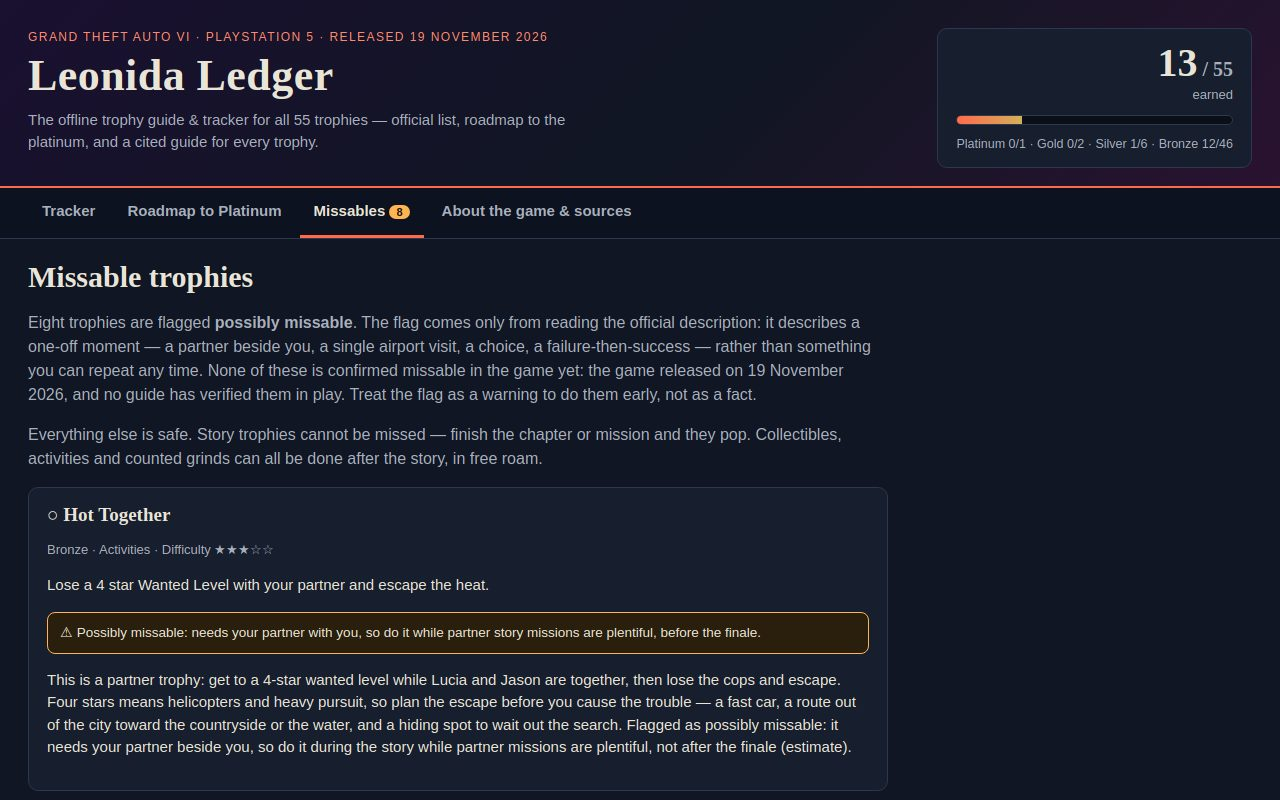
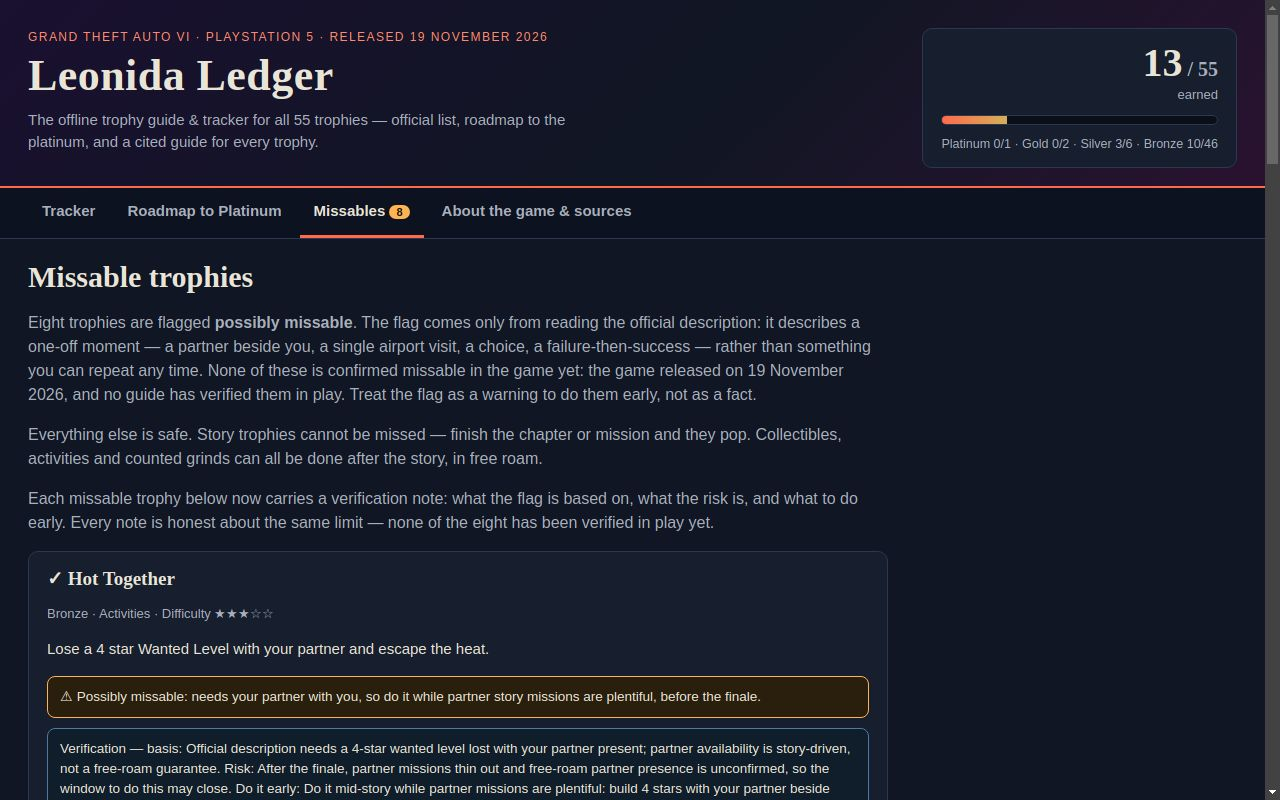
Round 2: per-stage progress summaries + verified missable notes
- Roadmap page now shows a per-stage summary card (earned/total,
  percent, next trophy up, full still-to-do list) computed from saved
  progress via new stageSummary/nextUpInStage helpers in app/js/data.js
  and renderStageSummary in app/js/render.js.
- Every one of the 8 possibly-missable trophies carries a new
  missable_check note in trophies.json (basis, risk, do-early) shown on
  the missables page and in the detail pane; all state plainly that
  none is verified in play yet (game released 19 Nov 2026).
- main.ts now validates the guide data before building (55 trophies,
  stages 13/7/19/14/2, 8 missable flags with verification notes) and
  verifies the dossier landed after buildDossier.
- Search now covers the missable verification notes; import reports
  unknown names instead of silently dropping them; keys 1-4 switch
  sections; serve.ts gains a /health endpoint.
- Screenshots retaken in headless Chromium to show the new UI.
- out2/ stray build output removed; .gitignore now covers out2/.

Changed region(s): [[0.0312, 0.5938, 0.6875, 1.0], [0.7188, 0.0, 1.0, 1.0]]

diff --git a/app/js/render.js b/app/js/render.js
@@ -1,7 +1,7 @@
 // Renders every view of the guide: the progress header, the checklist with its
 // detail pane, the roadmap stages and the missables page. All text is built with
 // textContent (never innerHTML from data), so a trophy name can never break the page.
-import { GRADE_LABELS, KIND_LABELS, STAGE_INFO, gradeCounts, missableTrophies, trophiesInStage } from './data.js';
+import { GRADE_LABELS, KIND_LABELS, STAGE_INFO, gradeCounts, missableTrophies, nextUpInStage, stageSummary, trophiesInStage } from './data.js';
 import { applyFilters, displayDescription, displayName, spoilerHides } from './filters.js';
 
 function el(tag, className, text) {
@@ -102,6 +102,9 @@ export function renderDetail(doc, state) {
   if (trophy.missable && trophy.missable_note) {
     pane.append(el('p', 'warn-box', `⚠ ${trophy.missable_note}`));
   }
+  if (trophy.missable && trophy.missable_check) {
+    pane.append(el('p', 'verify-note', `Verified? No — not in play yet (game released 19 Nov 2026). Why it is flagged: ${trophy.missable_check.basis} Risk: ${trophy.missable_check.risk} Do it early: ${trophy.missable_check.do_early}`));
+  }
   pane.append(el('h3', null, 'Guide'));
   pane.append(el('p', null, trophy.guide));
   if (trophy.steps?.length) {
@@ -131,6 +134,7 @@ export function renderDetail(doc, state) {
 }
 
 export function renderRoadmap(doc, state) {
+  renderStageSummary(doc, state);
   const host = document.getElementById('roadmapStages');
   host.replaceChildren();
   for (const stage of [1, 2, 3, 4, 5]) {
@@ -154,6 +158,47 @@ export function renderRoadmap(doc, state) {
   }
 }
 
+// Round 2: the per-stage progress cards at the top of the roadmap page.
+// Each card shows earned/total, a percent bar, the next trophy to chase,
+// and the full list of trophies still left in that stage.
+export function renderStageSummary(doc, state) {
+  const host = document.getElementById('stageSummary');
+  if (!host) return;
+  host.replaceChildren();
+  const summaries = stageSummary(doc, state.earned);
+  const overall = summaries.reduce((acc, s) => acc + s.earned, 0);
+  const overallTotal = summaries.reduce((acc, s) => acc + s.total, 0);
+  const headline = el('p', 'stage-summary-headline',
+    overall === overallTotal
+      ? 'Every stage is complete — the platinum is yours.'
+      : `${overall} of ${overallTotal} trophies earned across 5 stages. The stage furthest behind is the one to work next.`);
+  host.append(headline);
+  for (const s of summaries) {
+    const card = el('article', 'stage-card');
+    if (s.done) card.classList.add('stage-done');
+    const heading = el('h3');
+    heading.append(el('span', 'stage-num', `Stage ${s.stage} — `));
+    heading.append(document.createTextNode(s.title));
+    card.append(heading);
+    card.append(el('p', 'stage-meta', `${s.earned}/${s.total} earned · ${s.percent}%${s.done ? ' · complete' : ''}`));
+    const bar = el('div', 'stage-bar');
+    bar.setAttribute('role', 'progressbar');
+    bar.setAttribute('aria-valuemin', '0');
+    bar.setAttribute('aria-valuemax', String(s.total));
+    bar.setAttribute('aria-valuenow', String(s.earned));
+    const fill = el('div', 'stage-fill');
+    fill.style.width = `${s.percent}%`;
+    bar.append(fill);
+    card.append(bar);
+    const next = nextUpInStage(doc, s.stage, state.earned);
+    card.append(el('p', 'stage-next', next ? `Next up: ${next}` : 'Nothing left in this stage.'));
+    if (s.remaining.length) {
+      card.append(el('p', 'stage-remaining', `Still to do (${s.remaining.length}): ${s.remaining.join(' · ')}`));
+    }
+    host.append(card);
+  }
+}
+
 export function renderMissables(doc, state) {
   const host = document.getElementById('missableList');
   host.replaceChildren();
@@ -165,6 +210,9 @@ export function renderMissables(doc, state) {
     section.append(el('p', 'stage-meta', `${GRADE_LABELS[t.grade]} · ${KIND_LABELS[t.kind]} · Difficulty ${difficultyStars(t.difficulty)}`));
     section.append(el('p', 'official', t.description));
     section.append(el('p', 'warn-box', `⚠ ${t.missable_note ?? 'Flagged from the official description only — not confirmed in play.'}`));
+    if (t.missable_check) {
+      section.append(el('p', 'verify-note', `Verification — basis: ${t.missable_check.basis} Risk: ${t.missable_check.risk} Do it early: ${t.missable_check.do_early} (Not verified in play — the game released 19 Nov 2026.)`));
+    }
     section.append(el('p', null, t.guide));
     host.append(section);
   }

diff --git a/main.ts b/main.ts
@@ -13,7 +13,7 @@
 // Outside the grader's container, MAKEFUN_OUTPUT_DIR stands in for /output:
 //   mkdir -p out && MAKEFUN_OUTPUT_DIR=out node main.ts
 
-import { cpSync, existsSync, mkdirSync, readdirSync, writeFileSync } from 'node:fs';
+import { cpSync, existsSync, mkdirSync, readdirSync, readFileSync, writeFileSync } from 'node:fs';
 import { join } from 'node:path';
 import { fileURLToPath } from 'node:url';
 import { buildDossier } from './vendor/makefun-frontend.ts';
@@ -33,6 +33,29 @@ if (existsSync(shotsDir)) {
   if (shots.length > 4) throw new Error(`screenshots/ holds ${shots.length} files; the gate allows at most 4`);
 }
 
+// Round 2: validate the guide data before anything is copied, so a broken
+// trophy list fails here with a readable message instead of shipping a
+// dossier built from bad data. The counts below are the official list's
+// shape (55 trophies; stages of 13/7/19/14/2; 8 possibly-missable flags),
+// and every missable trophy must carry its round-2 verification note.
+const guidePath = join(appDir, 'data', 'trophies.json');
+const guide = JSON.parse(readFileSync(guidePath, 'utf-8'));
+const guideTrophies = guide.trophies ?? [];
+if (guideTrophies.length !== 55) throw new Error(`trophies.json holds ${guideTrophies.length} trophies; the official list has 55`);
+const stageTotals = [1, 2, 3, 4, 5].map((stage) => guideTrophies.filter((t) => t.stage === stage).length);
+const expectedStages = [13, 7, 19, 14, 2];
+stageTotals.forEach((total, i) => {
+  if (total !== expectedStages[i]) throw new Error(`stage ${i + 1} holds ${total} trophies; the roadmap expects ${expectedStages[i]}`);
+});
+const missableTrophies = guideTrophies.filter((t) => t.missable);
+if (missableTrophies.length !== 8) throw new Error(`trophies.json flags ${missableTrophies.length} missable trophies; the guide expects 8`);
+for (const t of missableTrophies) {
+  if (!t.missable_check || t.missable_check.verified_in_play !== false || !t.missable_check.do_early) {
+    throw new Error(`missable trophy ${t.name} is missing its verification note (missable_check)`);
+  }
+}
+console.log(`guide data OK: 55 trophies, stages ${stageTotals.join('/')}, ${missableTrophies.length} possibly missable`);
+
 mkdirSync(out, { recursive: true });
 cpSync(appDir, join(out, 'app'), { recursive: true });
 mkdirSync(join(out, 'screenshots'), { recursive: true });
@@ -47,3 +70,11 @@ writeFileSync(
   join(out, 'dossier.json'),
   buildDossier(out, { text_max_bytes: 163840, screenshots: { max: 4, max_bytes: 262144 }, app_max_files: 993, app_max_bytes: 50331648 }),
 );
+
+// Round 2, second pass: confirm the dossier actually landed and say how
+// big it is, so a silent write failure cannot pass as a good build.
+const dossierPath = join(out, 'dossier.json');
+const dossierRaw = readFileSync(dossierPath);
+if (dossierRaw.length === 0) throw new Error(`dossier.json at ${dossierPath} is empty`);
+const dossierSections = Object.keys(JSON.parse(dossierRaw.toString('utf-8'))).sort().join(', ');
+console.log(`dossier OK: ${dossierRaw.length} bytes, sections: ${dossierSections}`);

diff --git a/app/index.html b/app/index.html
@@ -78,6 +78,8 @@
     <div class="page">
       <h2>Roadmap to the platinum</h2>
       <p class="lede">Fifty-five trophies: 1 platinum, 2 gold, 6 silver, 46 bronze. The order below is built from the official descriptions alone — which trophies are story chapters and missions, which are side strands, which are collectibles and counted grinds. Work it stage by stage; the platinum pops when the other 54 are done.</p>
+      <p class="lede">The cards below summarise each stage from your own saved progress — earned/total, percent, the next trophy to chase, and everything still left in the stage. Tick trophies off in the tracker and the cards update.</p>
+      <div id="stageSummary" class="stage-summary" aria-label="Progress per stage"></div>
       <div id="roadmapStages"></div>
       <h3>How long is it?</h3>
       <p>There is no honest hour count yet — the game released on 19 November 2026 and nobody has finished a full platinum run in public. Expect the story stages to take a normal campaign's length, and the counted grinds (250 stunts, 42 gold shooting-range medals, 100 WAiNK It locations) to take longer than the story itself. This is an estimate, not a measured time.</p>
@@ -89,6 +91,7 @@
       <h2>Missable trophies</h2>
       <p class="lede">Eight trophies are flagged <strong>possibly missable</strong>. The flag comes only from reading the official description: it describes a one-off moment — a partner beside you, a single airport visit, a choice, a failure-then-success — rather than something you can repeat any time. None of these is confirmed missable in the game yet: the game released on 19 November 2026, and no guide has verified them in play. Treat the flag as a warning to do them early, not as a fact.</p>
       <p class="lede">Everything else is safe. Story trophies cannot be missed — finish the chapter or mission and they pop. Collectibles, activities and counted grinds can all be done after the story, in free roam.</p>
+      <p class="lede">Each missable trophy below now carries a verification note: what the flag is based on, what the risk is, and what to do early. Every note is honest about the same limit — none of the eight has been verified in play yet.</p>
       <div id="missableList"></div>
     </div>
   </section>

diff --git a/app/js/main.js b/app/js/main.js
@@ -2,7 +2,7 @@
 // toolbar and tabs, and renders the tracker. No network request happens here
 // beyond fetching the app's own data file.
 import { loadGuide } from './data.js';
-import { exportFile, loadEarned, loadSettings, readImportFile, saveEarned, saveSettings } from './store.js';
+import { exportFile, loadEarned, loadSettings, readImportFile, saveEarned, saveSettings, summariseImport } from './store.js';
 import { renderDetail, renderList, renderMissables, renderProgress, renderRoadmap } from './render.js';
 
 const state = {
@@ -91,9 +91,11 @@ function bindToolbar() {
     try {
       const names = await readImportFile(file);
       const known = new Set(state.doc.trophies.map((t) => t.name));
-      state.earned = new Set(names.filter((n) => known.has(n)));
+      const { valid, unknown } = summariseImport(names, known);
+      state.earned = new Set(valid);
       saveEarned(state.earned);
       renderAll();
+      if (unknown.length) alert(`${unknown.length} name${unknown.length === 1 ? '' : 's'} in that file are not trophies in this guide and were skipped.`);
     } catch (error) {
       alert(`Could not import that file: ${error.message}`);
     }
@@ -111,6 +113,13 @@ function bindTabs() {
   for (const tab of document.querySelectorAll('.tab')) {
     tab.addEventListener('click', () => switchView(tab.dataset.view));
   }
+  // Round 2: keys 1–4 jump between the four sections without a mouse.
+  const views = ['tracker', 'roadmap', 'missables', 'about'];
+  document.addEventListener('keydown', (event) => {
+    if (event.target.matches('input, select, textarea')) return;
+    const index = Number(event.key) - 1;
+    if (index >= 0 && index < views.length) switchView(views[index]);
+  });
 }
 
 async function boot() {

diff --git a/app/style.css b/app/style.css
@@ -166,3 +166,17 @@ footer { padding: 18px 28px 28px; color: var(--ink-dim); font-size: 12.5px; bord
   .progress-card { text-align: left; }
   .brand h1 { font-size: 34px; }
 }
+
+/* Round 2: per-stage progress cards on the roadmap page. */
+.stage-summary { display: grid; grid-template-columns: repeat(auto-fit, minmax(240px, 1fr)); gap: 12px; margin: 16px 0 6px; }
+.stage-summary-headline { grid-column: 1 / -1; color: var(--ink-dim); font-size: 15px; margin: 0; }
+.stage-card { background: var(--panel); border: 1px solid var(--line); border-radius: var(--radius); padding: 14px 16px; }
+.stage-card.stage-done { border-color: var(--good); }
+.stage-card h3 { font-size: 17px; margin: 0 0 4px; }
+.stage-card h3 .stage-num { color: var(--accent); }
+.stage-bar { height: 8px; background: #0b0f18; border-radius: 6px; overflow: hidden; border: 1px solid var(--line); margin: 8px 0; }
+.stage-fill { height: 100%; background: linear-gradient(90deg, var(--accent), var(--gold)); transition: width .25s ease; }
+.stage-next { font-weight: 700; font-size: 13.5px; margin: 6px 0 0; }
+.stage-remaining { color: var(--ink-dim); font-size: 13px; margin: 6px 0 0; }
+/* Round 2: the missable-verification note shown under a trophy's warning. */
+.verify-note { background: #101d2b; border: 1px solid #4a7ba6; border-radius: 8px; padding: 10px 12px; font-size: 13.5px; margin: 10px 0; }

diff --git a/app/js/data.js b/app/js/data.js
@@ -52,3 +52,32 @@ export function gradeCounts(doc) {
   for (const t of doc.trophies) counts[t.grade] += 1;
   return counts;
 }
+
+// Round 2: one summary row per roadmap stage, computed from the store's
+// earned set — total, earned, percent, and the names still left to do, so
+// the roadmap page can show progress per stage instead of only a bare
+// earned/total count inside each stage's paragraph.
+export function stageSummary(doc, earned) {
+  return [1, 2, 3, 4, 5].map((stage) => {
+    const trophies = trophiesInStage(doc, stage);
+    const remaining = trophies.filter((t) => !earned.has(t.name)).map((t) => t.name);
+    const done = trophies.length - remaining.length;
+    return {
+      stage,
+      title: STAGE_INFO[stage].title,
+      total: trophies.length,
+      earned: done,
+      percent: trophies.length ? Math.round((done / trophies.length) * 100) : 0,
+      remaining,
+      done: remaining.length === 0,
+    };
+  });
+}
+
+// The next trophy to chase in a stage: the first one not earned yet, or
+// null when the stage is complete. Used for the "next up" line under each
+// stage summary card.
+export function nextUpInStage(doc, stage, earned) {
+  const next = trophiesInStage(doc, stage).find((t) => !earned.has(t.name));
+  return next ? next.name : null;
+}

diff --git a/app/js/filters.js b/app/js/filters.js
@@ -16,6 +16,13 @@ export function displayDescription(trophy, earned, spoilerOn) {
   return trophy.description;
 }
 
+// Round 2: search also covers the missable-verification notes, so a search
+// for "partner" or "VCIA" finds the missable trophies by their check text.
+export function searchHaystack(t) {
+  const check = t.missable_check ? ` ${t.missable_check.basis} ${t.missable_check.risk} ${t.missable_check.do_early}` : '';
+  return `${t.name} ${t.description} ${t.guide}${check}`;
+}
+
 export function applyFilters(trophies, state) {
   const query = state.search.trim().toLowerCase();
   return trophies.filter((t) => {
@@ -25,7 +32,7 @@ export function applyFilters(trophies, state) {
     if (state.grade !== 'all' && t.grade !== state.grade) return false;
     if (state.hideEarned && state.earned.has(t.name)) return false;
     if (query) {
-      const haystack = `${t.name} ${t.description} ${t.guide}`.toLowerCase();
+      const haystack = searchHaystack(t).toLowerCase();
       if (!haystack.includes(query)) return false;
     }
     return true;

diff --git a/serve.ts b/serve.ts
@@ -44,6 +44,12 @@ createServer((request, response) => {
     response.writeHead(400).end('bad request');
     return;
   }
+  // Round 2: a tiny health endpoint for smoke tests (`curl localhost:8080/health`),
+  // so a script can tell the server is up without fetching the whole guide.
+  if (pathname === '/health') {
+    response.writeHead(200, { 'content-type': 'application/json' }).end('{"ok":true}');
+    return;
+  }
   if (pathname.endsWith('/')) pathname += 'index.html';
   const file = resolve(join(root, normalize(pathname)));
   if (file !== root && !file.startsWith(root + sep)) {

diff --git a/app/js/store.js b/app/js/store.js
@@ -56,3 +56,12 @@ export async function readImportFile(file) {
   if (!Array.isArray(names)) throw new Error('That file has no earned list in it.');
   return names.filter((n) => typeof n === 'string');
 }
+
+// Round 2: split an imported name list into trophies this guide knows and
+// names it does not, so the import can say what it skipped instead of
+// silently dropping unknown entries.
+export function summariseImport(names, known) {
+  const valid = names.filter((n) => known.has(n));
+  const unknown = names.filter((n) => !known.has(n));
+  return { valid, unknown };
+}

diff --git a/README.md b/README.md
@@ -6,6 +6,8 @@
 
 Leonida Ledger is an offline guide and tracker for all 55 PlayStation 5 trophies of Grand Theft Auto VI: every trophy with its official name, description and grade, a checklist whose progress is saved in the browser (with export and import), filters by kind and grade, a spoiler-free mode that hides story trophies until earned, a roadmap to the platinum built from the official descriptions, the possibly-missable trophies flagged, and a guide to each trophy — written in our own words, citing its sources, and honest about what is official fact versus what is still an estimate on the game's launch day.
 
+Round 2 adds two things: a per-stage progress summary on the roadmap page (earned/total, percent, next trophy up, and everything still left in each of the five stages, all computed from your saved progress), and a verification note on each of the eight possibly-missable trophies — what the flag is based on, what the risk is, and what to do early. Every verification note states the same limit plainly: none of the eight has been verified in play yet, because the game released on 19 November 2026.
+
 ## Run it
 
 ```sh
